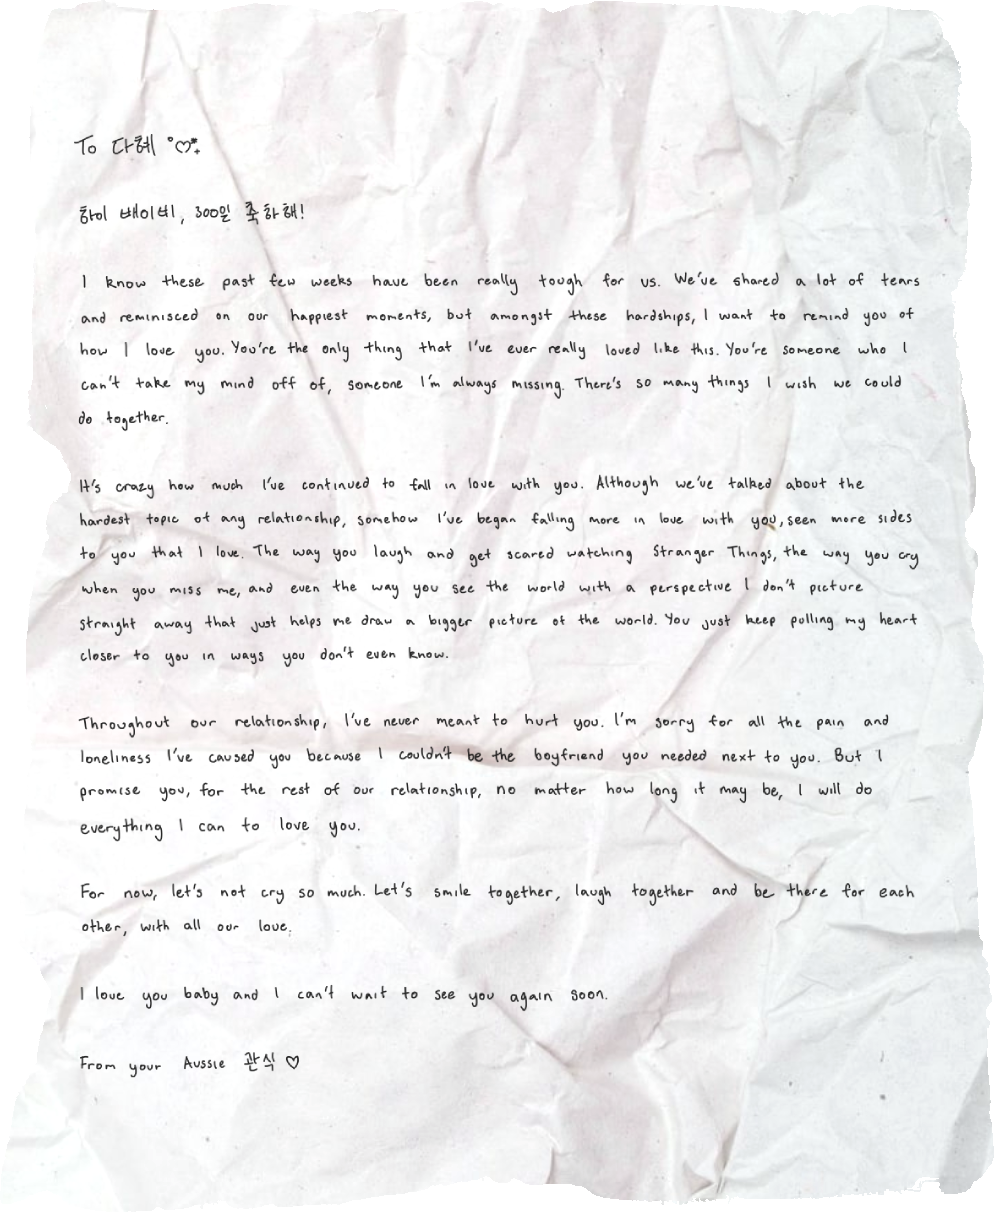
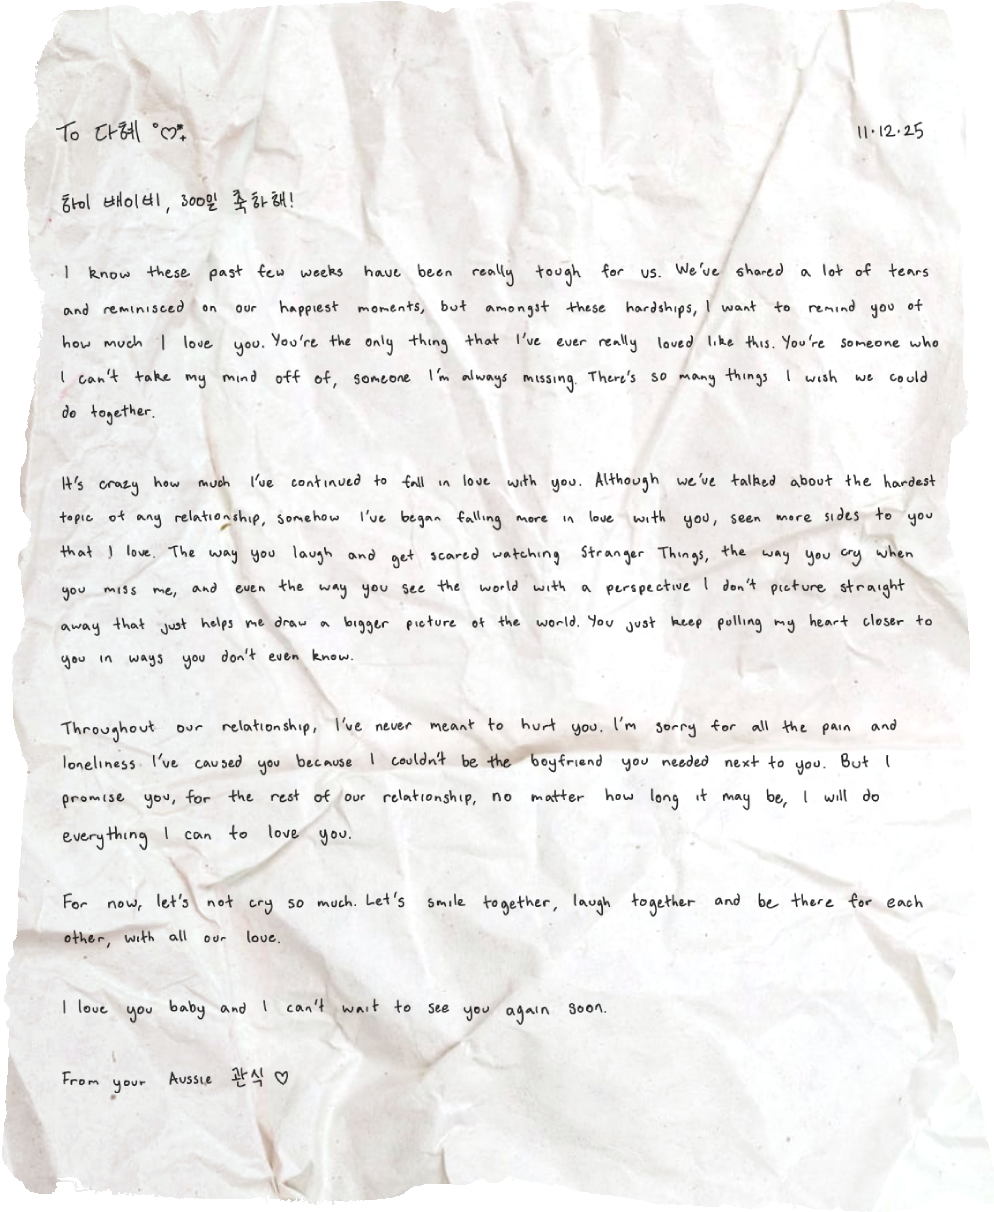
resize letter

diff --git a/style.css b/style.css
@@ -113,7 +113,7 @@ body {
   width: 20px;
   height: 20px;
   border-radius: 50%;
-  background: rgba(255, 80, 80, 0.95); /* strong blue */
+  background: rgba(33, 133, 255, 0.95); /* strong blue */
   box-shadow: 0 6px 12px rgba(33,133,255,0.18);
   transform: translate(-50%, -50%);
   pointer-events: none;
@@ -127,7 +127,7 @@ body {
   width: 20px;
   height: 20px;
   border-radius: 50%;
-  background: rgba(255, 80, 80, 0.95); /* attention color */
+  background: rgba(33, 133, 255, 0.95); /* attention color */
   box-shadow: 0 8px 18px rgba(255,80,80,0.16);
   transform: translate(-50%, -50%);
   pointer-events: none; /* let clicks pass through to the stick */
@@ -152,13 +152,13 @@ body {
 /* Enlarge the letter when pressed the second time */
 .letter-enlarge {
   /* fallback for non-ID targets */
-  transform: translate(-50%, -50%) scale(1.45);
+  transform: translate(-50%, -50%) scale(1.40);
   filter: drop-shadow(0 18px 30px rgba(0,0,0,0.28));
 }
 
 /* Ensure the ID selector doesn't override the enlarge state: higher-specificity rule */
 #letter.letter-enlarge {
-  transform: translate(-50%, -50%) scale(1.45);
+  transform: translate(-50%, -50%) scale(1.40);
   filter: drop-shadow(0 18px 30px rgba(0,0,0,0.28));
   transform-origin: center center;
   z-index: 60; /* bring enlarged letter above box parts and sticks */
